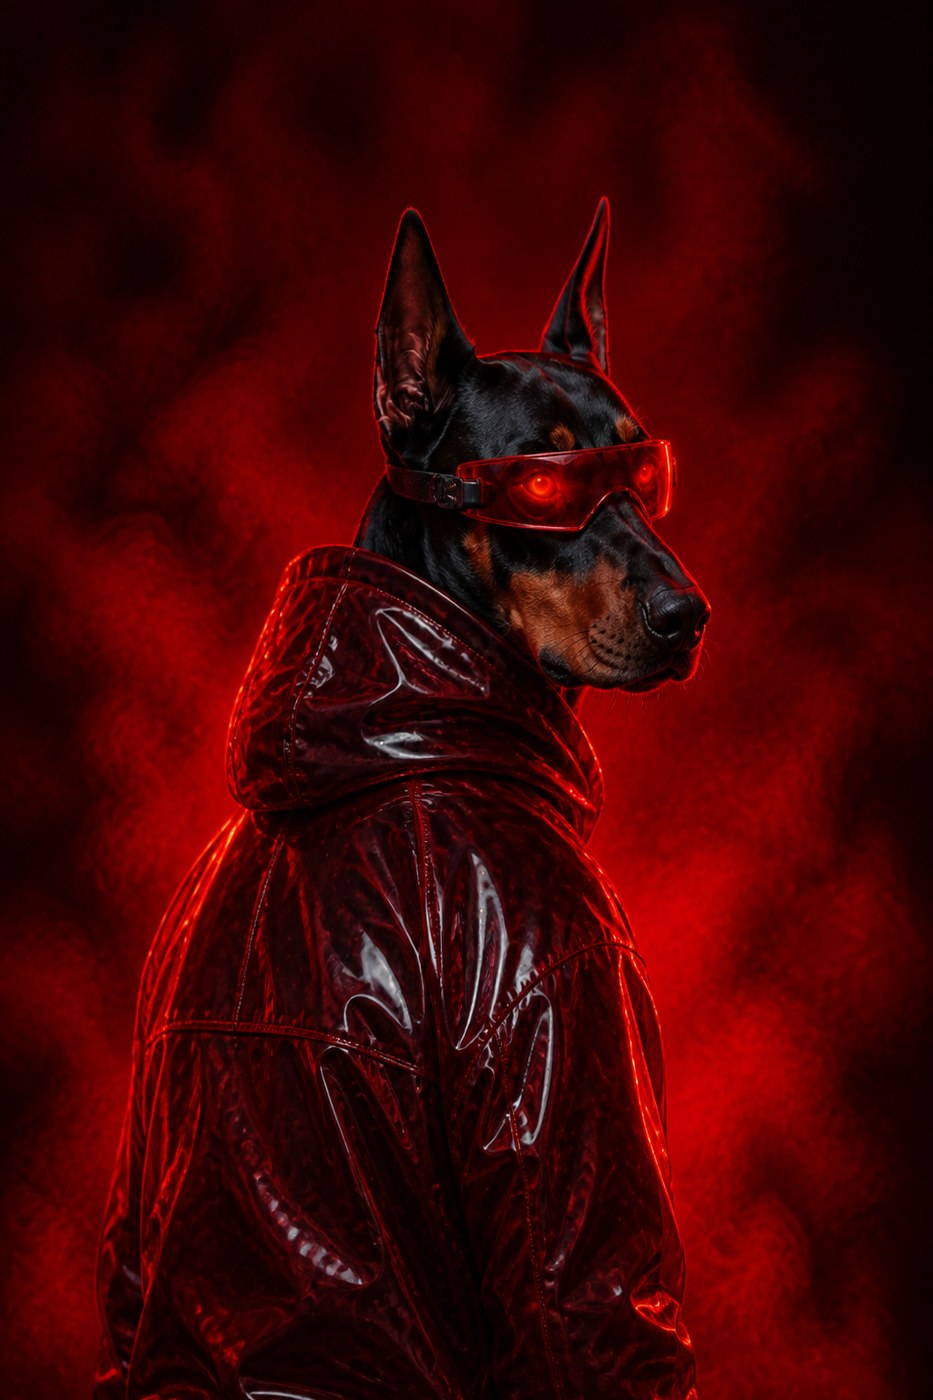
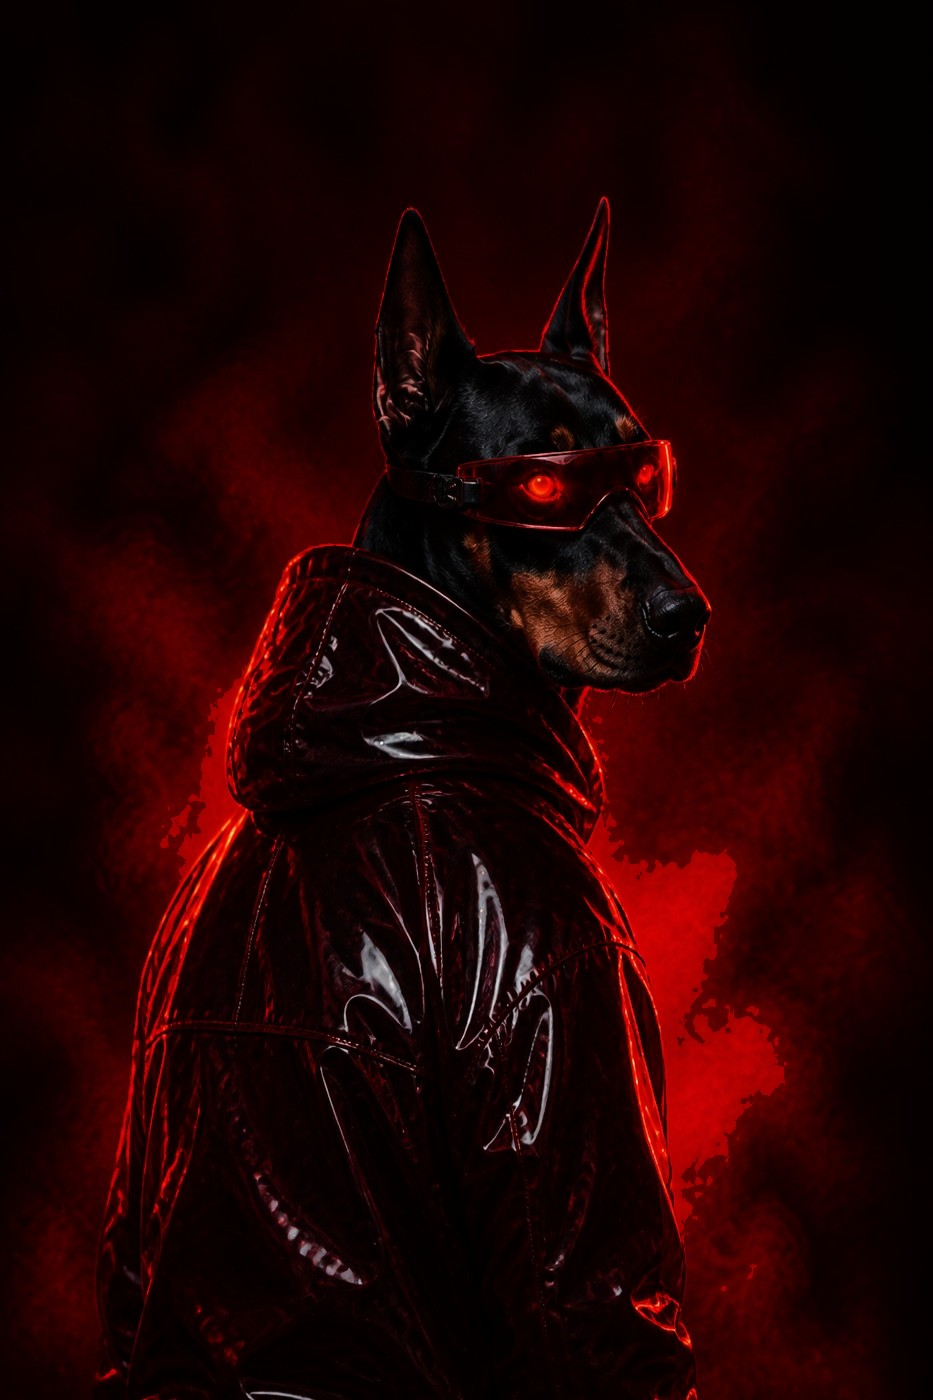
Make Code Red smoke a full-hero atmospheric layer
Move red haze out of the dog portrait and onto hero-level full-viewport smoke/glow layers with soft edge fades, blur, and blend modes so the atmosphere spans edge-to-edge without a boxed center panel.

diff --git a/styles.css b/styles.css
@@ -336,10 +336,8 @@ figure { margin: 0; }
 }
 
 /* ============================================================
-   AATHIRA'S CODE RED — rebuilt as 3 absolute layers (target mock)
-   Layer 1: seamless full-viewport red/black field
-   Layer 2: large centered dog (no boxed stage / no cover zoom)
-   Layer 3: typography locked to lower half of the viewport
+   AATHIRA'S CODE RED — full-page atmosphere + centered dog
+   Smoke is a HERO-LEVEL full-viewport layer (never inside .cr-dog).
    ============================================================ */
 .hero-code-red {
   --ac: #ff2222;
@@ -356,41 +354,107 @@ figure { margin: 0; }
   display: block;
   padding: 0;
   overflow: hidden;
-  /* Layer 1 — seamless field, no center panel */
-  background:
-    radial-gradient(42% 48% at 50% 32%, rgba(140, 22, 22, 0.55), transparent 68%),
-    radial-gradient(90% 60% at 50% 100%, rgba(30, 0, 0, 0.95), transparent 55%),
-    linear-gradient(180deg, #030101 0%, #0c0202 40%, #160404 70%, #050101 100%);
+  /* Deep black base — atmosphere paints the red haze */
+  background: #030101;
 }
-.hero-code-red::before {
-  content: "";
-  position: absolute;
-  inset: 0;
-  z-index: 0;
-  pointer-events: none;
-  background:
-    radial-gradient(26% 20% at 50% 28%, rgba(255, 55, 40, 0.2), transparent 70%),
-    linear-gradient(90deg, transparent 22%, rgba(200, 30, 30, 0.18) 50%, transparent 78%);
-  opacity: 1;
-}
+.hero-code-red::before,
 .hero-code-red::after {
-  /* soft horizontal lens flare behind neck/goggles */
-  content: "";
-  position: absolute;
-  left: 8%;
-  right: 8%;
-  top: 30%;
-  height: 2px;
-  z-index: 1;
-  pointer-events: none;
-  background: linear-gradient(90deg, transparent, rgba(255, 60, 50, 0.55), transparent);
-  filter: blur(1.5px);
-  opacity: 0.85;
+  content: none;
+  display: none;
 }
 .hero-code-red .hero-ghost,
 .hero-code-red .hero-footer { display: none !important; }
 
-/* Layer 2 — dog: tall, centered, NO width-constrained rectangle */
+/* ---- Full-hero atmosphere stack (edge-to-edge) ---- */
+.hero-code-red .cr-atmosphere {
+  position: absolute;
+  inset: 0;
+  z-index: 0;
+  pointer-events: none;
+  overflow: hidden;
+}
+.hero-code-red .cr-atmosphere-base {
+  position: absolute;
+  inset: 0;
+  background:
+    /* wide cinematic field — red haze reaches far left/right before going black */
+    radial-gradient(120% 80% at 50% 40%, rgba(90, 12, 12, 0.85), transparent 70%),
+    radial-gradient(80% 55% at 18% 55%, rgba(70, 8, 8, 0.45), transparent 60%),
+    radial-gradient(80% 55% at 82% 55%, rgba(70, 8, 8, 0.45), transparent 60%),
+    radial-gradient(100% 70% at 50% 100%, rgba(25, 0, 0, 0.98), transparent 55%),
+    linear-gradient(180deg, #040101 0%, #140303 48%, #1c0606 78%, #050101 100%);
+}
+/* Primary smoke — full viewport span, soft blur, no oval box mask */
+.hero-code-red .cr-atmosphere-smoke {
+  position: absolute;
+  inset: -25% -15%;
+  background-image: url("assets/code-red-smoke.jpg");
+  background-size: 140% 140%;
+  background-position: center 40%;
+  background-repeat: no-repeat;
+  opacity: 0.55;
+  filter: blur(42px) saturate(1.25) brightness(0.8) contrast(1.05);
+  mix-blend-mode: screen;
+  /* Only feather the extreme edges — still spans nearly full width */
+  -webkit-mask-image:
+    linear-gradient(90deg, transparent 0%, #000 6%, #000 94%, transparent 100%),
+    linear-gradient(180deg, transparent 0%, #000 8%, #000 92%, transparent 100%);
+  -webkit-mask-composite: source-in;
+          mask-image:
+    linear-gradient(90deg, transparent 0%, #000 6%, #000 94%, transparent 100%),
+    linear-gradient(180deg, transparent 0%, #000 8%, #000 92%, transparent 100%);
+          mask-composite: intersect;
+}
+.hero-code-red .cr-atmosphere-smoke-b {
+  inset: -35% -20%;
+  opacity: 0.38;
+  filter: blur(64px) saturate(1.3) brightness(0.7);
+  transform: scaleX(-1) scale(1.15);
+  background-position: 40% 55%;
+  mix-blend-mode: soft-light;
+  -webkit-mask-image:
+    linear-gradient(90deg, transparent 0%, #000 4%, #000 96%, transparent 100%),
+    linear-gradient(180deg, transparent 0%, #000 6%, #000 94%, transparent 100%);
+  -webkit-mask-composite: source-in;
+          mask-image:
+    linear-gradient(90deg, transparent 0%, #000 4%, #000 96%, transparent 100%),
+    linear-gradient(180deg, transparent 0%, #000 6%, #000 94%, transparent 100%);
+          mask-composite: intersect;
+}
+/* Hot core + wide secondary wash so haze isn't a center column */
+.hero-code-red .cr-atmosphere-glow {
+  position: absolute;
+  inset: 0;
+  background:
+    radial-gradient(42% 48% at 50% 34%, rgba(255, 55, 40, 0.42), transparent 70%),
+    radial-gradient(95% 60% at 50% 48%, rgba(150, 22, 22, 0.28), transparent 78%),
+    radial-gradient(50% 40% at 15% 60%, rgba(120, 16, 16, 0.2), transparent 70%),
+    radial-gradient(50% 40% at 85% 60%, rgba(120, 16, 16, 0.2), transparent 70%);
+  mix-blend-mode: screen;
+  opacity: 1;
+  filter: blur(2px);
+}
+.hero-code-red .cr-atmosphere-flare {
+  position: absolute;
+  left: 0;
+  right: 0;
+  top: 30%;
+  height: 160px;
+  transform: translateY(-50%);
+  background: linear-gradient(
+    90deg,
+    transparent 0%,
+    rgba(255, 50, 40, 0.1) 12%,
+    rgba(255, 70, 55, 0.4) 50%,
+    rgba(255, 50, 40, 0.1) 88%,
+    transparent 100%
+  );
+  filter: blur(18px);
+  opacity: 0.8;
+  mix-blend-mode: screen;
+}
+
+/* ---- Dog foreground (subject only; atmosphere is separate) ---- */
 .hero-code-red .cr-dog {
   position: absolute;
   left: 50%;
@@ -414,9 +478,9 @@ figure { margin: 0; }
   margin: 0;
   overflow: visible;
   background: none;
-  /* soft edge blend — kills rectangular jpeg boundary */
-  -webkit-mask-image: radial-gradient(68% 72% at 50% 42%, #000 48%, transparent 88%);
-          mask-image: radial-gradient(68% 72% at 50% 42%, #000 48%, transparent 88%);
+  /* Subject-only soft mask — no portrait smoke panel */
+  -webkit-mask-image: radial-gradient(52% 58% at 50% 38%, #000 38%, rgba(0,0,0,0.65) 58%, transparent 78%);
+          mask-image: radial-gradient(52% 58% at 50% 38%, #000 38%, rgba(0,0,0,0.65) 58%, transparent 78%);
 }
 .hero-code-red .cr-dog-frame .tt-frame {
   position: absolute;
@@ -428,6 +492,8 @@ figure { margin: 0; }
   opacity: 0;
   pointer-events: none;
   mix-blend-mode: normal;
+  /* slight dark crush of remaining jpeg bg via filter */
+  filter: contrast(1.05) brightness(0.96);
 }
 .hero-code-red .cr-dog-frame .tt-frame.is-front { opacity: 1; }
 

diff --git a/index.html b/index.html
@@ -46,17 +46,24 @@
 
 <!-- ======================= HERO — AATHIRA'S CODE RED (FIRST) ======================= -->
 <section class="hero hero-code-red" id="home" aria-label="Aathira's Code Red — thermal sentinel companion">
-  <!-- Layer 1: page field via CSS background on .hero-code-red -->
+  <!-- Full-hero atmosphere (NOT inside dog wrapper) -->
+  <div class="cr-atmosphere" aria-hidden="true">
+    <div class="cr-atmosphere-base"></div>
+    <div class="cr-atmosphere-smoke cr-atmosphere-smoke-a"></div>
+    <div class="cr-atmosphere-smoke cr-atmosphere-smoke-b"></div>
+    <div class="cr-atmosphere-glow"></div>
+    <div class="cr-atmosphere-flare"></div>
+  </div>
 
-  <!-- Layer 2: large centered dog (not a boxed stage) -->
-  <div class="cr-dog" id="heroStage" aria-hidden="false">
+  <!-- Centered dog foreground -->
+  <div class="cr-dog" id="heroStage">
     <figure class="cr-dog-frame turntable" id="heroRender" data-render-slot="hero">
       <img src="assets/turntable/code-red-0.jpg" alt="Aathira's Code Red — photorealistic thermal canid in glossy red vinyl armour with glowing red LED visor" id="heroImgA" class="tt-frame is-front" fetchpriority="high" decoding="async" />
       <img src="assets/turntable/code-red-1.jpg" alt="" id="heroImgB" class="tt-frame" aria-hidden="true" loading="lazy" decoding="async" />
     </figure>
   </div>
 
-  <!-- Layer 3: lower-half typography -->
+  <!-- Lower-half typography -->
   <div class="hero-copy cr-copy">
     <p class="eyebrow mono">THE SYNTHETIC PET LAB — THERMAL SENTINEL</p>
     <h1 class="hero-title hero-title-stack">
